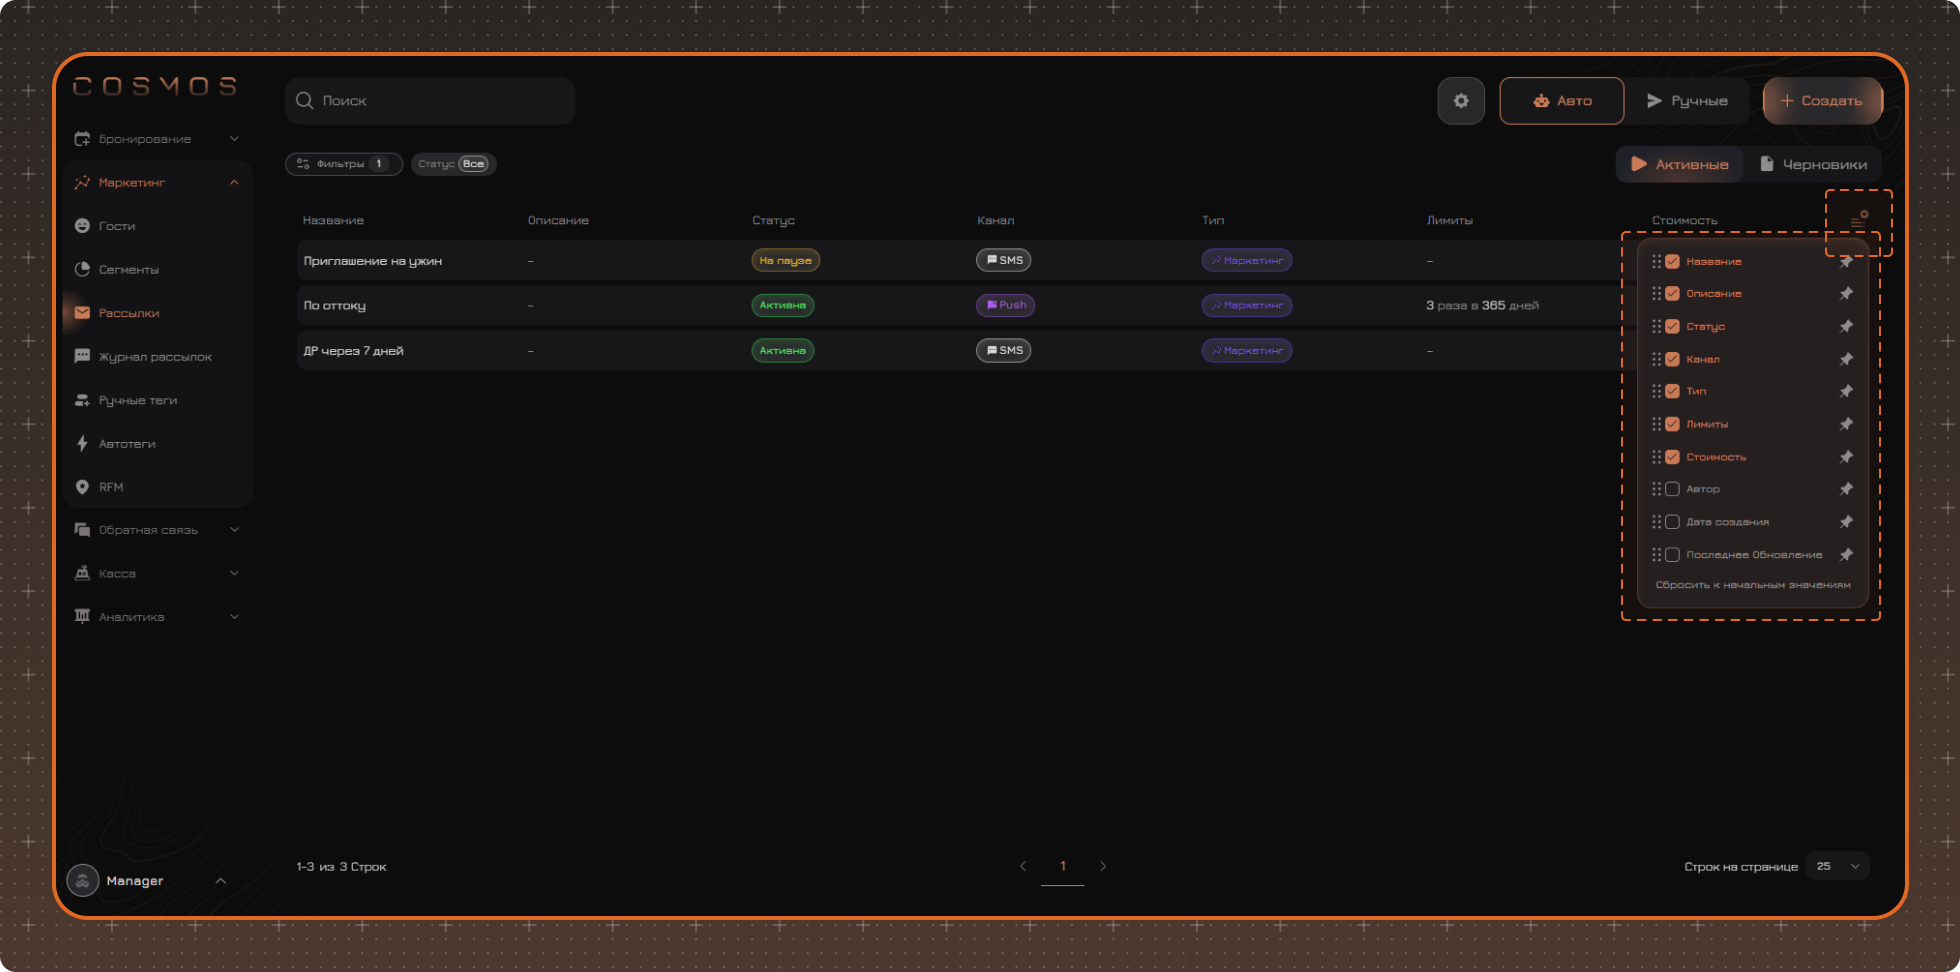
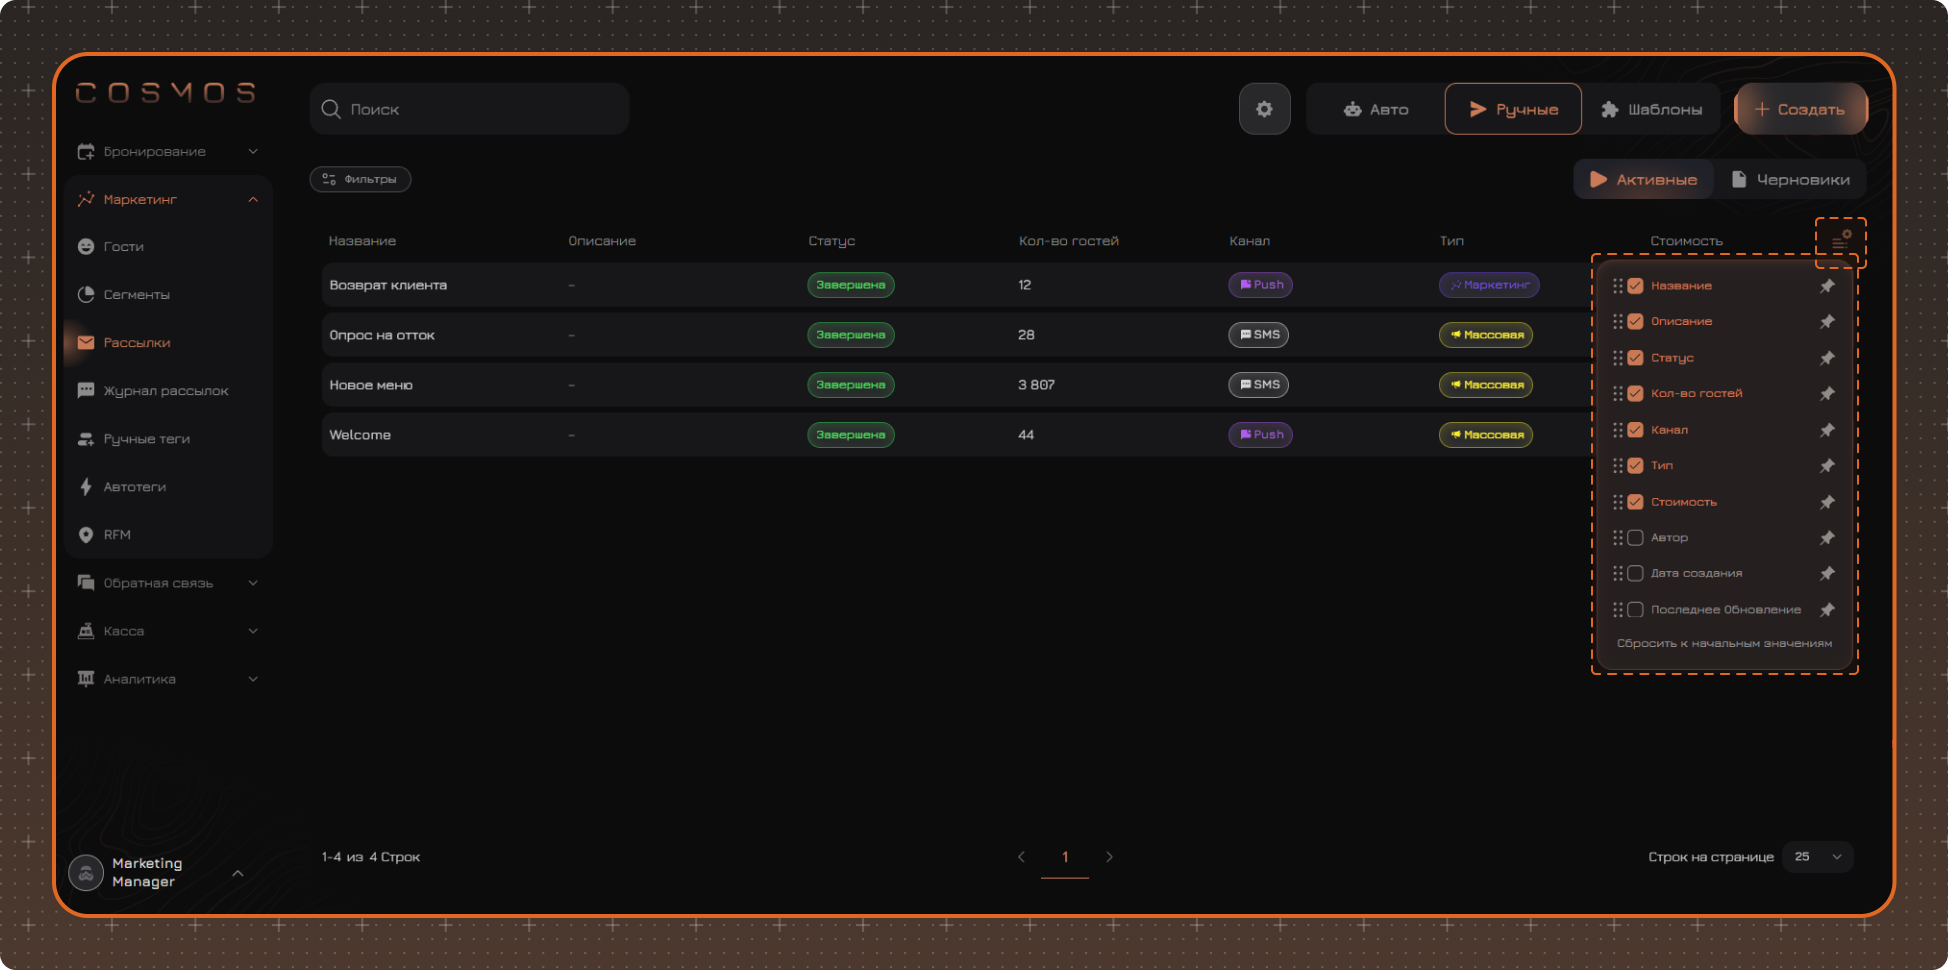
Mailings: WhatsApp channel, table columns, template stubs
- info.md: add WhatsApp to channels, integrations and limits; add
  WhatsApp templates section; describe mailing table columns
- add empty-state stubs for templates-info.md and create-template.md
- update mailing screenshots

diff --git a/content/ru/marketing/mailings/info.md b/content/ru/marketing/mailings/info.md
@@ -11,7 +11,7 @@ updatedAt: 2026-08-28
 
 ## Рассылки
 
-Раздел **Рассылки** предназначен для отправки сообщений гостям через **SMS**, **Push** и **E-mail**.
+Раздел **Рассылки** предназначен для отправки сообщений гостям через **SMS**, **Push**, **E-mail** и **WhatsApp**.
 
 ![mailings](/ru/images/mailings/mailings.png)
 
@@ -45,8 +45,17 @@ updatedAt: 2026-08-28
 - **SMS** — через SMS-шлюз
 - **E-mail** — через сервис E-mail-рассылок
 - **Push** — через интеграцию с системой карт лояльности
+- **WhatsApp** — через интеграцию с Twilio
 
 Если нужный способ отправки не отображается при создании рассылки, проверьте наличие и настройки соответствующей интеграции.
+
+## Шаблоны WhatsApp
+
+Для отправки сообщений через **WhatsApp** используются только шаблоны, одобренные Meta.
+
+Чтобы перейти к созданию и управлению шаблонами, нажмите **Шаблоны** в верхней части страницы **Рассылки**.
+
+Подробнее о работе с шаблонами — в статье **[Шаблоны](/ru/marketing/mailings/templates-info/)**.
 
 ## Установка ограничений
 
@@ -59,17 +68,13 @@ updatedAt: 2026-08-28
 
 
 - Ограничения задаются отдельно для каждого типа рассылки: **Массовая**, **Маркетинг**, **Сервис**
-- Для каждого типа можно установить ограничения отдельно для **SMS**, **Push** и **E-mail**
+- Для каждого типа можно установить ограничения отдельно для **SMS**, **Push**, **E-mail** и **WhatsApp**
 - Ограничение задает максимальное количество отправок за выбранный период
 - Если для конкретной рассылки установлены собственные ограничения, сначала учитываются общие ограничения, затем ограничения самой рассылки
 - Рассылки с **Экстра приоритетом** отправляются без учета общих ограничений
 
 
 ## Настройки таблицы
-
-![mailings](/ru/images/mailings/column.png)
-
-[[delimiter rows=1]]
 
 Для изменения набора отображаемых столбцов нажмите кнопку настройки таблицы в правом верхнем углу.
 
@@ -79,12 +84,36 @@ updatedAt: 2026-08-28
 ✔ Закрепить нужные столбцы  
 ✔ Вернуть настройки по умолчанию с помощью команды **Сбросить к начальным значениям**
 
+![mailings](/ru/images/mailings/column.png)
+
+[[delimiter rows=1]]
+
+В таблице рассылок отображаются следующие столбцы:
+
+- **Название** 
+- **Описание** 
+- **Статус** — текущее состояние рассылки. Автоматическая рассылка может быть **Активной** или **На паузе**, ручная — **В процессе** или **Завершена**. У черновиков статуса нет
+- **Тип рассылки** — **Массовая**, **Маркетинг** или **Сервисная**
+- **Канал связи** — способ отправки сообщения
+- **Локации & группы** 
+- **Дата создания** 
+- **Автор** 
+- **Последнее обновление** 
+
+Только для автоматических рассылок:
+
+- **Лимиты рассылки** — собственные ограничения рассылки в формате «N раз в N дней 1 гостю». Если ограничения не настроены, отображается прочерк
+
+Только для ручных рассылок:
+
+- **Охват гостей** — количество гостей, отобранных по условиям рассылки в момент запуска
+
 > **Примечание.** Настройки таблицы сохраняются после обновления страницы. После выхода из системы настройки сбрасываются.
 
 
 ## Фильтрация данных
 
-![mailings](/ru/images/mailings/filters.png)
+![mailings](/ru/images/mailings/filter.png)
 
 [[delimiter rows=1]]
 
@@ -93,11 +122,6 @@ updatedAt: 2026-08-28
 После выбора необходимых значений нажмите **Применить**.
 
 Примененные фильтры отображаются над таблицей. Для удаления отдельного фильтра нажмите **×** рядом с его названием. Чтобы сбросить все фильтры, нажмите **Очистить фильтры**.
-
-
-
-
-
 
 
 

diff --git a/content/ru/marketing/mailings/create-template.md b/content/ru/marketing/mailings/create-template.md
@@ -1,0 +1,9 @@
+---
+title: Создание шаблона
+description: 
+summary: 
+order: 5
+updatedAt: 2026-09-29
+---
+
+[[empty-state:Страница пишется и скоро появится]]

diff --git a/content/ru/marketing/mailings/templates-info.md b/content/ru/marketing/mailings/templates-info.md
@@ -1,0 +1,9 @@
+---
+title: Шаблоны
+description: 
+summary: 
+order: 4
+updatedAt: 2026-09-29
+---
+
+[[empty-state:Страница пишется и скоро появится]]
